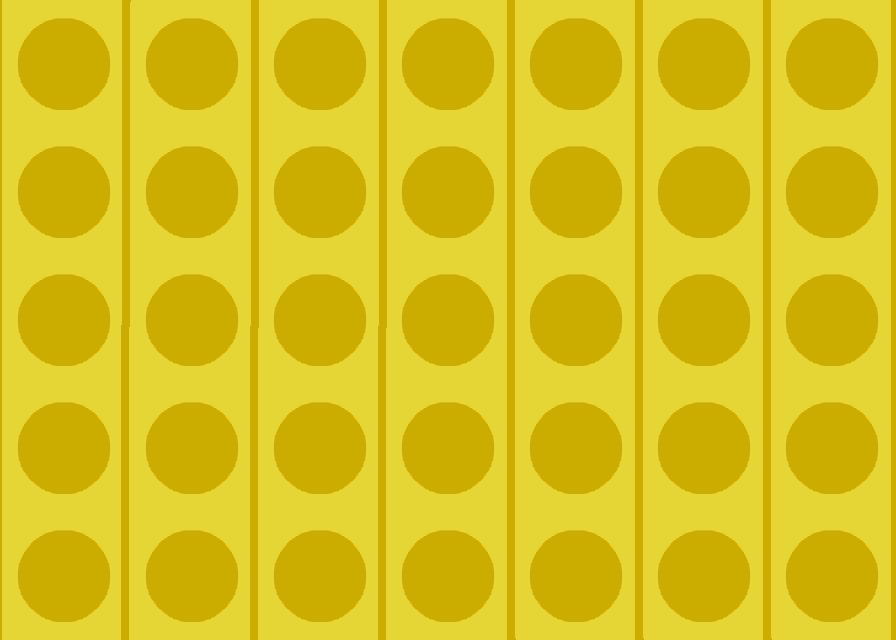
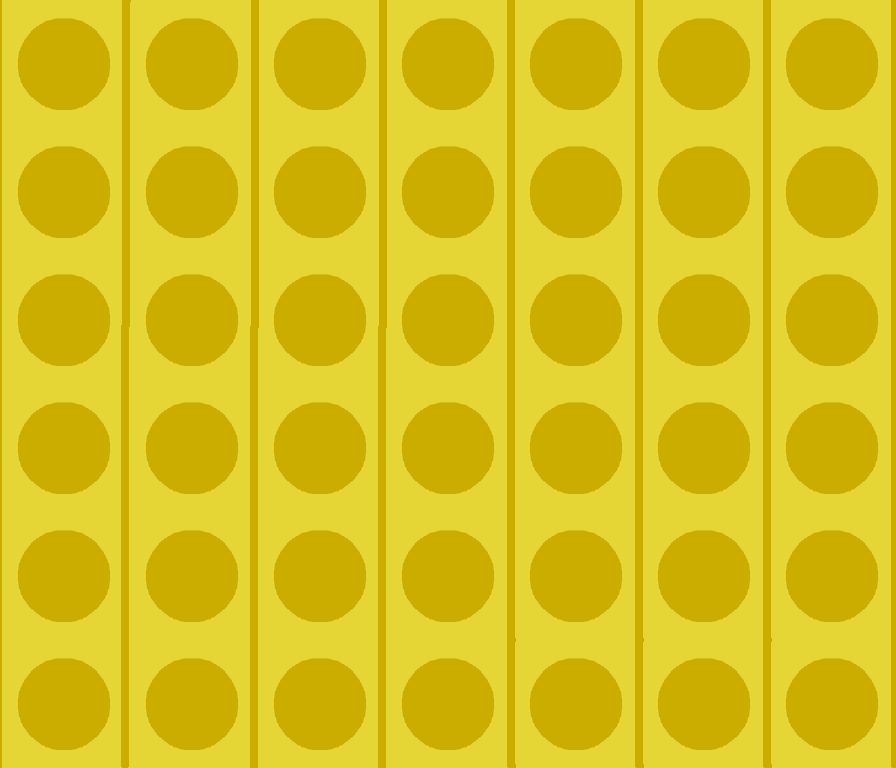
extend Display for Connect Four; tweak CF art assets

diff --git a/Client/ConnectFourDisplay.py b/Client/ConnectFourDisplay.py
@@ -4,3 +4,29 @@ class ConnectFourDisplay(GameDisplay):
     
     def __init__(self):
         GameDisplay.__init__(self)
+        self._set_dimensions()
+        self._screen = pygame.display.set_mode((GameDisplay.WINDOW_WIDTH, GameDisplay.WINDOW_HEIGHT))
+        pygame.display.set_caption("Connect Four | Board Game Server | Team #1")
+        self._load_images()
+
+    def _set_dimensions():
+        ConnectFourDisplay.BOARD_WIDTH = 896
+        ConnectFourDisplay.WINDOW_WIDTH = ConnectFourDisplay.BOARD_WIDTH + ConnectFourDisplay.SIDE_BAR_WIDTH
+        ConnectFourDisplay.WINDOW_HEIGHT = 768
+        ConnectFourDisplay.BOARD_HEIGHT = WINDOW_HEIGHT
+        ConnectFourDisplay.GRID_WIDTH =  self._game.get_width()
+        ConnectFourDisplay.GRID_HEIGHT = self._game.get_height()
+        ConnectFourDisplay.CELL_WIDTH = ConnectFourDisplay.BOARD_WIDTH / ConnectFourDisplay.GRID_WIDTH
+        ConnectFourDisplay.CELL_HEIGHT = ConnectFourDisplay.WINDOW_HEIGHT / ConnectFourDisplay.GRID_HEIGHT
+
+    def _load_images(self):
+        self._background = pygame.image.load('images/grid_connect_four.png')
+        self._piece0 = pygame.image.load('images/pieceRed.png')
+        self._piece1 = pygame.image.load('images/pieceBlack.png')
+
+    def _drawGamePiece(self,pos,value):
+        if(value == 1):
+            self._screen.blit(self._piece0, (GameDisplay.CELL_WIDTH * pos[0], GameDisplay.CELL_HEIGHT * pos[1]))
+        elif(value == 2):
+            self._screen.blit(self._piece1, (GameDisplay.CELL_WIDTH * pos[0], GameDisplay.CELL_HEIGHT * pos[1]))
+
